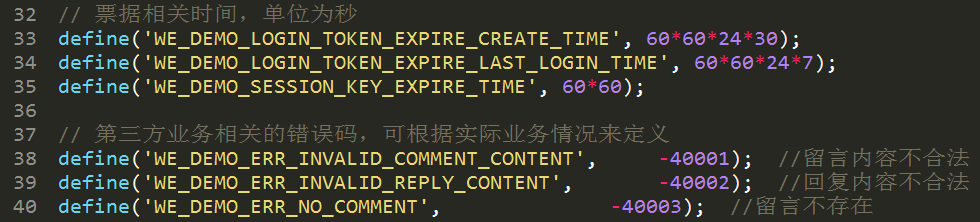
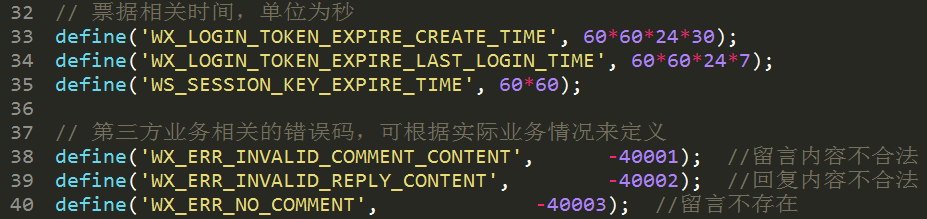
rename

diff --git a/php/demo/config.php b/php/demo/config.php
@@ -30,14 +30,14 @@ define('WE_DEMO_RSA_PRIVATE_KEY', __DIR__ . '/_key/rsa_private.key');
 define('WE_DEMO_SALT', 'WeDemo');
 
 // 票据相关时间，单位为秒
-define('WE_DEMO_LOGIN_TOKEN_EXPIRE_CREATE_TIME', 60*60*24*30);
-define('WE_DEMO_LOGIN_TOKEN_EXPIRE_LAST_LOGIN_TIME', 60*60*24*7);
-define('WE_DEMO_SESSION_KEY_EXPIRE_TIME', 60*60);
+define('WX_LOGIN_TOKEN_EXPIRE_CREATE_TIME', 60*60*24*30);
+define('WX_LOGIN_TOKEN_EXPIRE_LAST_LOGIN_TIME', 60*60*24*7);
+define('WS_SESSION_KEY_EXPIRE_TIME', 60*60);
 
 // 第三方业务相关的错误码，可根据实际业务情况来定义
-define('WE_DEMO_ERR_INVALID_COMMENT_CONTENT',			-40001);	//留言内容不合法
-define('WE_DEMO_ERR_INVALID_REPLY_CONTENT',				-40002);	//回复内容不合法
-define('WE_DEMO_ERR_NO_COMMENT',							-40003);	//留言不存在
+define('WX_ERR_INVALID_COMMENT_CONTENT',			-40001);	//留言内容不合法
+define('WX_ERR_INVALID_REPLY_CONTENT',				-40002);	//回复内容不合法
+define('WX_ERR_NO_COMMENT',							-40003);	//留言不存在
 
 /* !!! 请配置以上信息 !!! */
 
